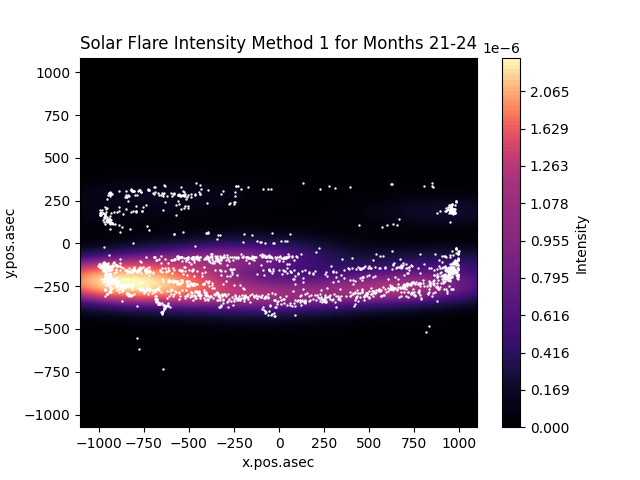
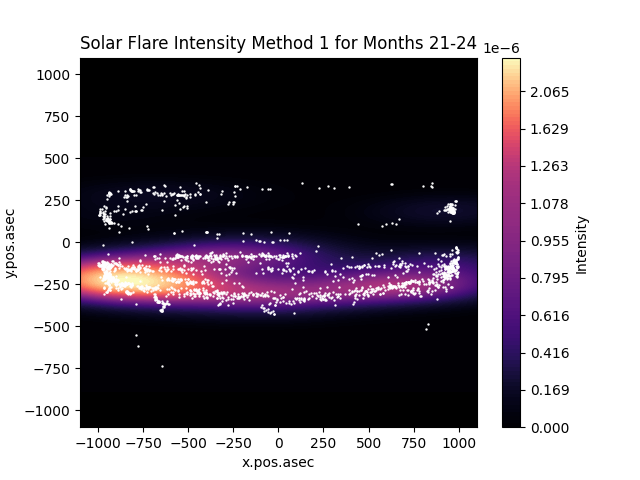
Convert some functions to regular python script

diff --git a/helios.py b/helios.py
@@ -6,46 +6,169 @@ import matplotlib.pyplot as plt
 import seaborn as sns
 from scipy import stats
 
-# from task1.ipynb
-def intensity_estimation(data, plot=False, levels=10):
-    # getting the x, y, and total.counts values in numpy arrays
-    x = data['x.pos.asec'].values.flatten()
-    y = data['y.pos.asec'].values.flatten()
-    counts = data['total.counts'].values.flatten()
+class Helios:
+
+    def __init__() -> None:
+        pass
     
-    if plot:
-        # new matplotlib figure
-        plt.figure()
+    def __map_and_normalize(data):
+        # maps energy band to average energy
+        energy_band_mapping = {    
+            '6-12': 9,
+            '12-25': 18.5,
+            '25-50': 37.5,
+            '50-100': 75,
+            '100-300': 200,
+            '300-800': 550,
+            '800-7000': 3900,
+            '7000-20000': 13500
+        }
 
-        # seaborn kde plot, uses scipy gaussian_kde underneath
-        ax = sns.kdeplot(data=data, x='x.pos.asec', y='y.pos.asec', 
-                           weights='total.counts', fill=True, levels=levels, 
-                           thresh=0, cmap='gist_heat', cbar=True)
+        # new column from mapping
+        data['energy.median.kev'] = data['energy.kev'].map(energy_band_mapping)
+
+        # retrieving max duration and max energy value
+        max_duration = data['duration.s'].max()
+        max_energy = data['energy.median.kev'].max()
+
+        # normalizing columns
+        data['normalized.duration'] = data['duration.s'] / max_duration
+        data['normalized.energy'] = data['energy.median.kev'] / max_energy
+
+        # calculating intensity based on duration * average energy of band
+        data['intensity.method.2'] = data['normalized.duration'] * data['normalized.energy']
+
+        # returning the modified data frame
+        return data
+
+    # from task1.ipynb
+    # used to either get an array of intensity estimations, 
+    # a plot if plot=True and thresh=False, 
+    # or just list of probability density values if plot=True and thresh=True
+    def intensity_estimation_frequency(data, plot=False, scatter=True, thresh=False, levels=10):
+        # getting the x, y, and total.counts values in numpy arrays
+        x = data['x.pos.asec'].values.flatten()
+        y = data['y.pos.asec'].values.flatten()
+        counts = data['total.counts'].values.flatten()
         
-        # retrieving the tick values for the colorbar, can be used as threshold values 
-        ticks = ax.collections[-1].colorbar.get_ticks()
+        if plot:
+            # new matplotlib figure
+            fig, ax = plt.subplots()
 
-        # adjusting domain and range
-        plt.xlim(x.min(), x.max())
-        plt.ylim(y.min(), y.max())
+            # seaborn kde plot, uses scipy gaussian_kde underneath
+            sns.kdeplot(data=data, x='x.pos.asec', y='y.pos.asec', 
+                            weights='total.counts', fill=True, levels=levels, 
+                            thresh=0, cmap='magma', cbar=True, ax=ax)
+            
+            # getting colorbar
+            cb = ax.collections[-1].colorbar
+            
+            # retrieving the tick values for the colorbar, can be used as threshold values 
+            ticks = cb.get_ticks()
 
-        # title
-        plt.title(f"Solar Flare Intensities for Months {data['month'].min()}-{data['month'].max()}")
+            if thresh:
+                # just return the values for the contours, which can serve as threshold values for hotspot analysis
+                return ticks
+            else:
+                # Setting the background color of the plot 
+                # using set_facecolor() method
+                ax.set_facecolor("black")
 
-        # plotting the scatterplot on top of the kde plot
-        plt.scatter(x, y, s=0.5, facecolor='white')
+                # color bar label
+                cb.set_label('Intensity')
 
-        # don't show the plot
-        plt.close()
 
-        # return the values for the contours, which can serve as threshold values for hotspot analysis
-        return ticks
-    else:
-        # data from the subset to be passed to gaussian kernel
-        training_locations = np.vstack([x, y])
+                # adjusting domain and range
+                ax.set_xlim(-1100, 1100)
+                ax.set_ylim(-1100, 1100)
 
-        # gaussian kernel, bandwidth using "scott's rule", using the total.counts attribute as weights
-        kde = stats.gaussian_kde(training_locations, bw_method='scott', weights=counts.T)
+                if scatter:
+                    # plotting the scatterplot on top of the kde plot
+                    plt.scatter(x, y, s=0.5, facecolor='white')
 
-        # returning the intensity values for each location
-        return kde.evaluate(training_locations)
+                # title
+                ax.set_title(f"Solar Flare Intensity Method 1 for Months {data['month'].min()}-{data['month'].max()}")
+                
+                # saving the figure to the output folder
+                date_range = f"{data['year'].iloc[0]}_{data['month'].min()}-{data['month'].max()}"
+                plt.savefig(f"./output/intensity_frequency_{date_range}.png")
+                plt.show()
+
+                return fig, ax
+        else:
+            # data from the subset to be passed to gaussian kernel
+            training_locations = np.vstack([x, y])
+
+            # gaussian kernel, bandwidth using "scott's rule", using the total.counts attribute as weights
+            kde = stats.gaussian_kde(training_locations, bw_method='scott', weights=counts.T)
+
+            # returning the intensity values for each location
+            return kde.evaluate(training_locations)
+
+    # from task1.ipynb    
+    # gets the energy based intensity values if plot=False,
+    # or a plot if plot=True    
+    def intensity_estimation_energy(self, data, plot=False, levels=10):
+        # adding the new intensity values for the data
+        data = self.__map_and_normalize(data)
+
+        # energy-based intensity data
+        intensity = data['intensity.method.2'].values.flatten()
+        # x and y values
+        x = data['x.pos.asec'].values.flatten()
+        y = data['y.pos.asec'].values.flatten()
+
+        if plot:
+            # new matplotlib figure
+            fig, ax = plt.subplots()
+            
+            # seaborn kde plot, uses scipy gaussian_kde underneath
+            ax = sns.kdeplot(data=data, x='x.pos.asec', y='y.pos.asec', 
+                            weights='intensity.method.2', fill=True, levels=levels, 
+                            thresh=0, cmap='inferno', cbar=True, bw_method='scott')
+
+            # Setting the background color of the plot 
+            # using set_facecolor() method
+            ax.set_facecolor("black")
+
+            # adjusting domain and range
+            plt.xlim(-1100, 1100)
+            plt.ylim(-1100, 1100)
+
+            # color bar and label
+            cb = ax.collections[-1].colorbar
+            cb.set_label('Mean Intensity')
+
+            # plotting the scatterplot on top of the kde plot
+            plt.scatter(x, y, s=0.2, facecolor='white')
+
+            ax.set_title(f"Solar Flare Intensity Method 2 for Months {data['month'].min()}-{data['month'].max()}")
+            date_range = f"{data['year'].iloc[0]}_{data['month'].min()}-{data['month'].max()}"
+            plt.savefig(f"./output/intensity_energy_{date_range}.png")
+            plt.show()
+
+            return fig, ax
+        else:
+            return intensity
+        
+    # from task2.ipynb
+    # averages all the potential threshold values across a set of pandas dataframes
+    # and returns d2 and d1
+    # levels should have two values for this to work right
+    def thresholds(self, dataframes, levels=[0.5, 0.99]):
+        ticks = []
+
+        # loop through each subset
+        for set in dataframes:
+            # append the potential threshold values to the ticks list
+            # a level value of [0, 0.25, 0.5, 0.75, 1] will return 5 intensity values where each
+            # corresponds with a probability mass of 0%, 25%, and so on
+            ticks.append(self.intensity_estimation_frequency(set, plot=True, thresh=True, levels=levels))
+        
+        # numpy mean will get the element-wise mean for all the potential threshold values
+        # from here, we can select the d1 and d2 threshold values from this list, like t[2] for the med
+        # hotspots and t[3] for the intense hotspots
+        t = np.mean(ticks, axis=0)
+
+        # returning d2, d1
+        return (t[0], t[1])

diff --git a/main.py b/main.py
@@ -1,0 +1,42 @@
+import pandas as pd
+import numpy as np
+from helios import Helios
+
+if __name__ == '__main__':
+    # reading the 04-05 data from the csv
+    df_04 = pd.read_csv('dataset/Solar_flare_RHESSI_2004_05.csv')
+
+    # changing the month values for the year 2005 (1 = 13, 2 = 14, etc.) to make subdivision simpler later on
+    # in rows where the year value is 2005, add 12 to the month value and replace the old month value
+    df_04['month'] = np.where((df_04['year'] == 2005), df_04['month'] + 12, df_04['month'])
+
+    # list that will hold sets of 4 with a two month overlap
+    dfs_04 = []
+
+    # grouping the data frame by month nummber
+    df_m = df_04.groupby(['month'])
+
+    # looping starting at i = 4, in steps of 2, while i < 25
+    # creates an overlap of two months between subsets
+    for i in range(4, 25, 2):
+        # get groups for i - 3th, i - 2th, i - 1th, and ith months, 
+        # concatenate them into a single data frame, then append this to the dfs list
+        dfs_04.append(pd.concat([df_m.get_group(i - 3), df_m.get_group(i - 2), df_m.get_group(i - 1), df_m.get_group(i)]))
+
+    # same thing but with the 15-16 data
+    df_15 = pd.read_csv('dataset/Solar_flare_RHESSI_2004_05.csv')
+    df_15['month'] = np.where((df_15['year'] == 2005), df_15['month'] + 12, df_15['month'])
+    dfs_15 = []
+    df_m = df_15.groupby(['month'])
+
+    for i in range(4, 25, 2):
+        dfs_15.append(pd.concat([df_m.get_group(i - 3), df_m.get_group(i - 2), df_m.get_group(i - 1), df_m.get_group(i)]))
+
+    # some examples
+
+    # frequency based intensity plot for the entire 04-05 dataset (no scatter plot overlaid)
+    Helios.intensity_estimation_frequency(df_04, plot=True, scatter=False, thresh=False, levels=100)
+    # energy based intensity plot for just the last 4 months of the 15-16 dataset
+    Helios.intensity_estimation_frequency(dfs_15[-1], plot=True, levels=100)
+
+    
